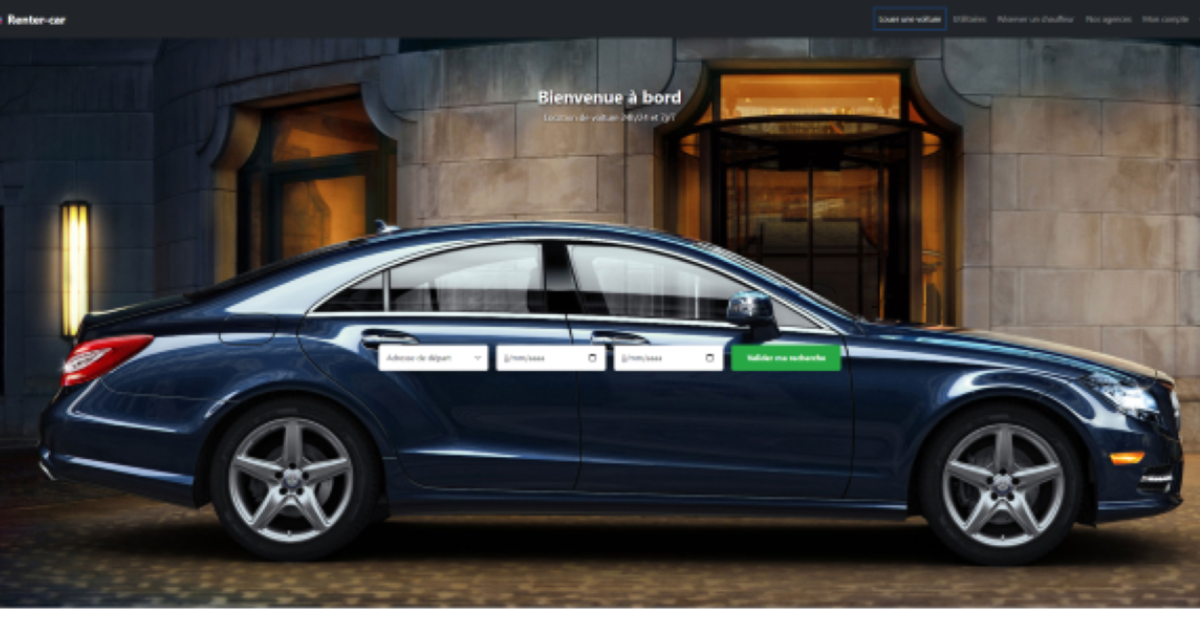
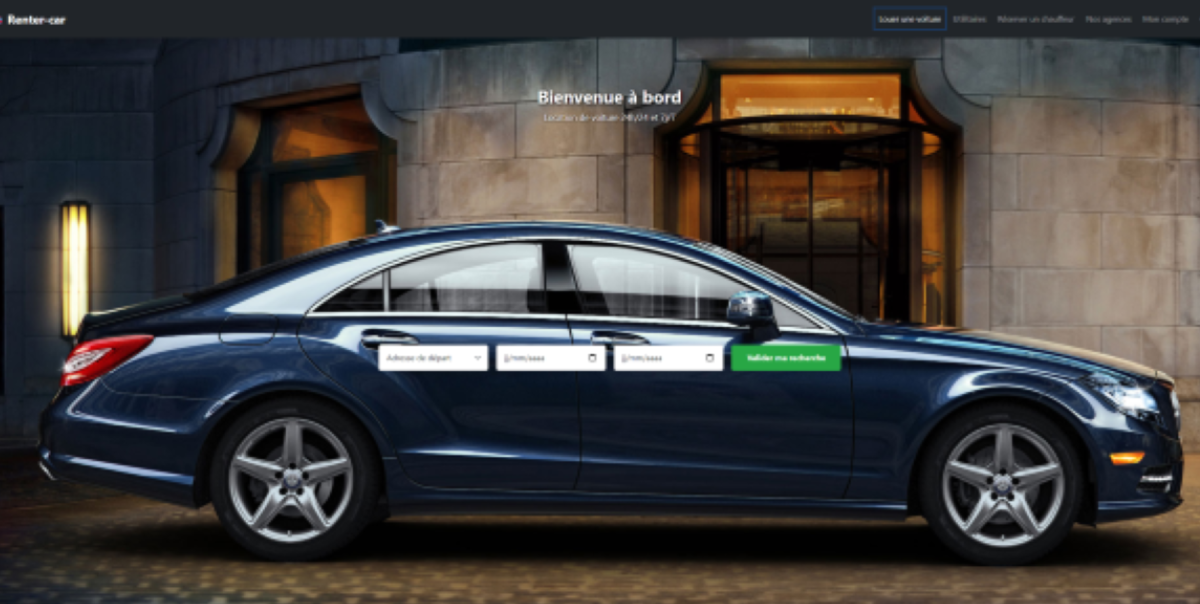
chore: finalize portfolio updates

diff --git a/client/src/main.tsx b/client/src/main.tsx
@@ -10,7 +10,7 @@ const umamiEndpoint = (
 const umamiWebsiteId =
   import.meta.env.VITE_UMAMI_WEBSITE_ID ||
   import.meta.env.VITE_ANALYTICS_WEBSITE_ID ||
-  "cb97b827-4f7b-4530-bbd5-b7ad58babe13";
+  "2b5b7b0d-7914-4f90-a6f0-f2a45dcaf732";
 
 if (import.meta.env.PROD && umamiWebsiteId && typeof document !== "undefined") {
   const script = document.createElement("script");
